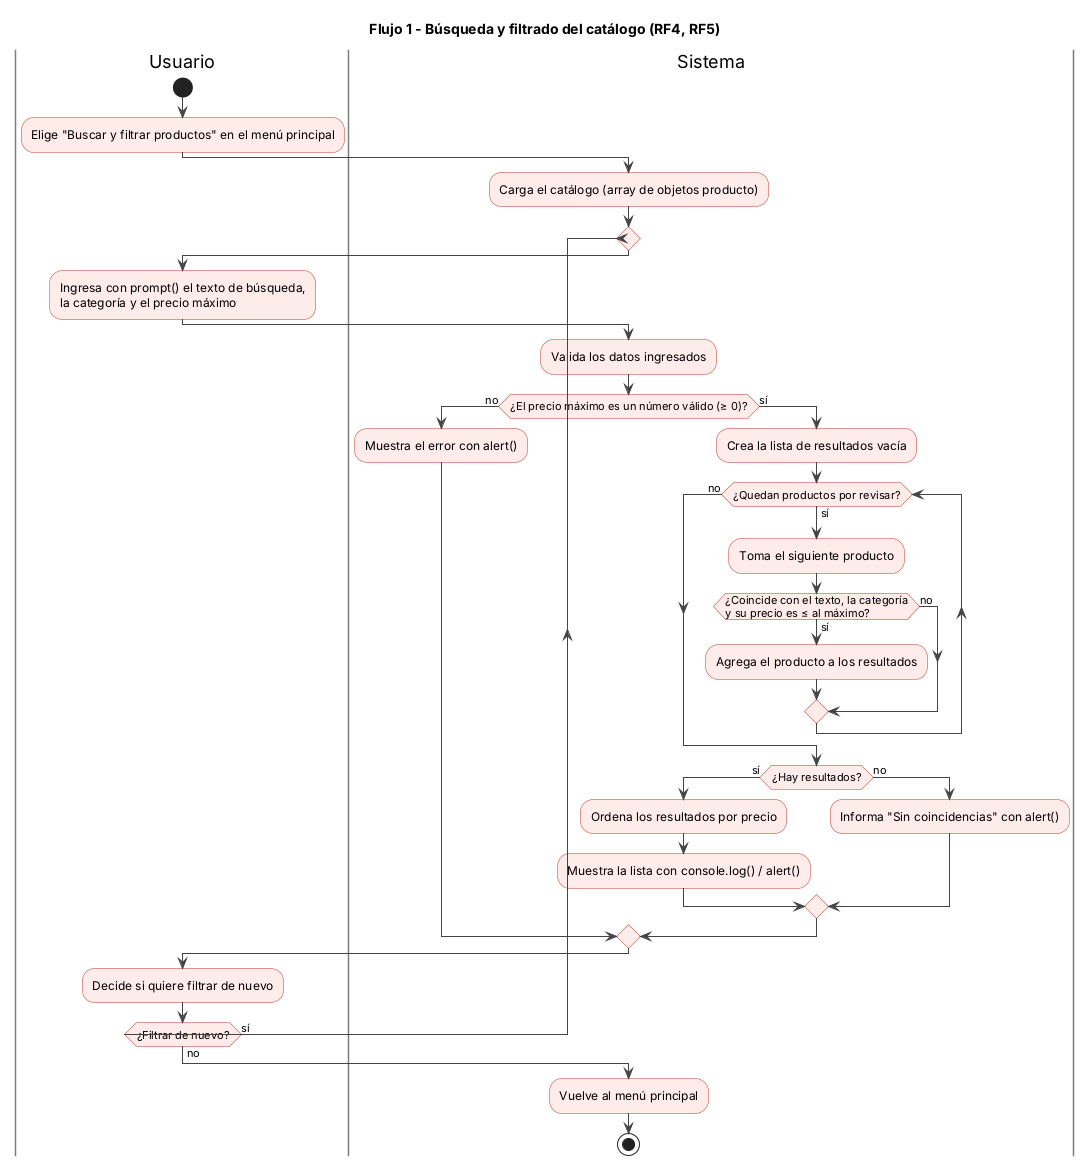
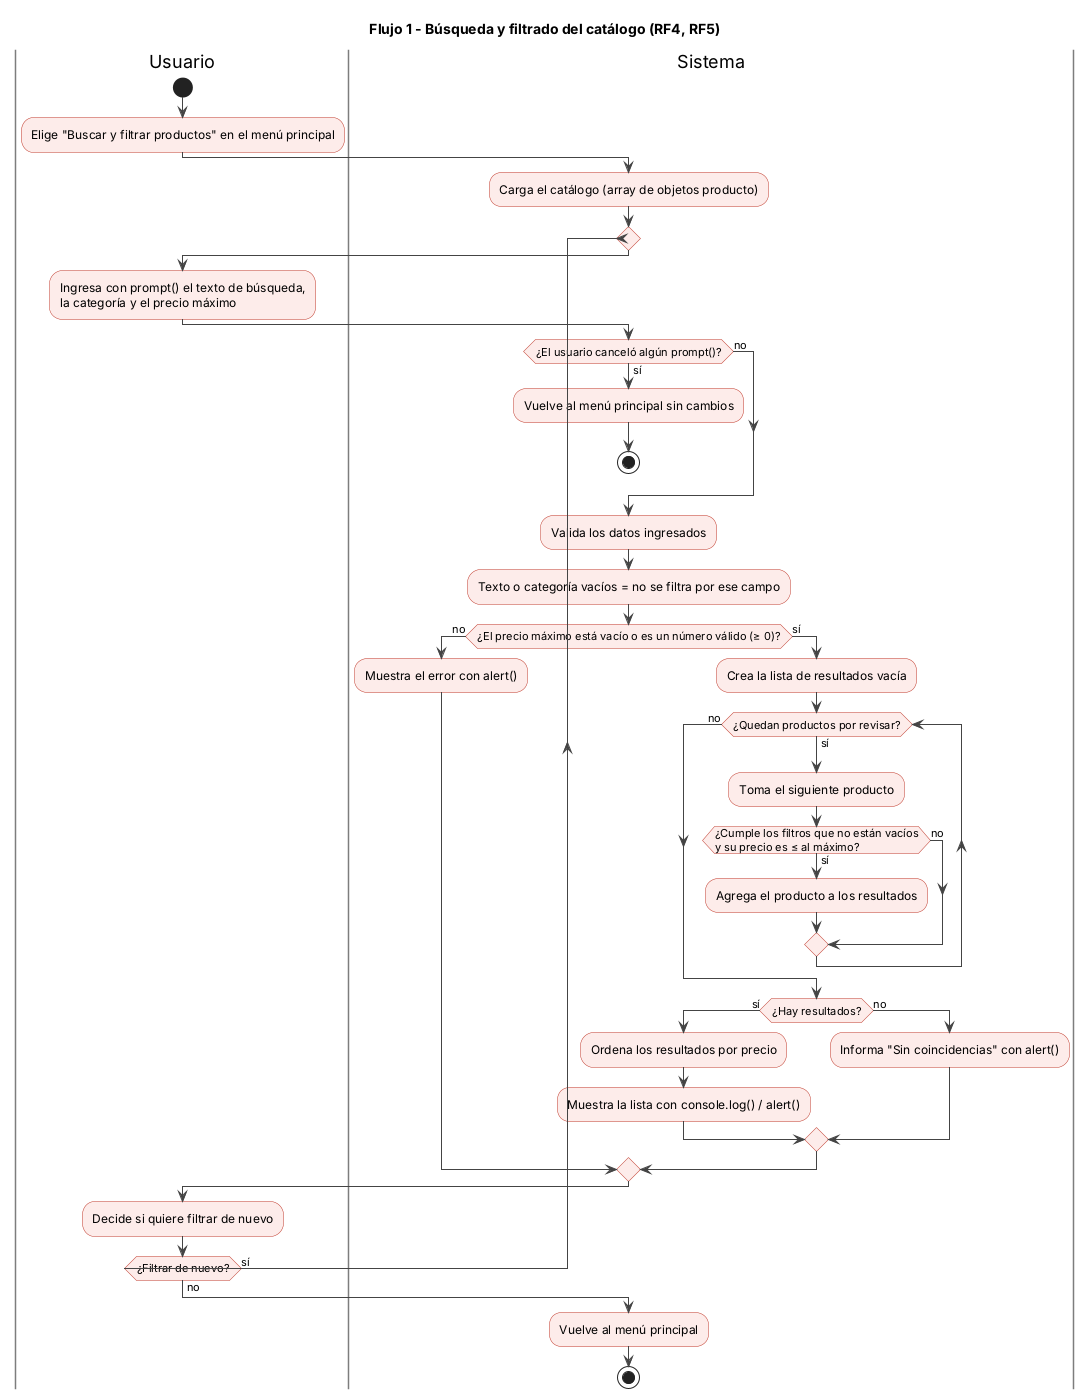
docs(diagramas): aplicar reglas acordadas con el dev JS (cancelaciones y efectos entre flujos)

diff --git a/docs/03-specs/actividad-obligatoria-3/spec-arq-diagramas.md b/docs/03-specs/actividad-obligatoria-3/spec-arq-diagramas.md
@@ -54,8 +54,9 @@ UI. Dentro de cada diagrama:
 - [x] `diagramas-doc.md` con índice, descripción de cada flujo, enlace al
       `.puml`, imagen `.png` embebida e instrucciones de edición (se
       comprobó que los enlaces relativos apuntan a archivos existentes).
-- [ ] Coordinación con el Desarrollador JavaScript para que los diagramas
-      reflejen la implementación (pendiente de confirmación por su parte).
+- [x] Coordinación con el Desarrollador JavaScript para que los diagramas
+      reflejen la implementación (reglas de cancelación y efectos entre
+      flujos acordadas en la issue; ver "Reglas acordadas" en AL CERRAR).
 
 ### Herramientas
 
@@ -136,8 +137,27 @@ correcciones del code review.
   condición clara por nivel: primero existencia del producto, después
   cantidad válida y finalmente si ya está en el carrito. Se aplicó el mismo
   criterio al caso "cambiar cantidad".
+- **Reglas acordadas con el Desarrollador JavaScript** (issue de
+  coordinación): se agregaron a los 4 diagramas las ramas de cancelación de
+  `prompt()` y los efectos entre flujos (ver tabla más abajo).
+- **Exportación:** el `.png` del flujo 2 superaba el límite por defecto de
+  PlantUML (4096 px de ancho) y salía cortado; se re-exportó ampliando el
+  límite con `-DPLANTUML_LIMIT_SIZE`.
 - **Verificación:** se regeneraron los 4 `.png` desde sus `.puml` y se
   comprobó que coinciden con los archivos exportados.
+
+### Reglas acordadas con el Desarrollador JavaScript
+
+| Flujo | Punto | Regla acordada |
+|---|---|---|
+| 1 Búsqueda | Filtros vacíos | Texto, categoría o precio vacíos = no se filtra por ese campo |
+| 1 Búsqueda | Cancelar un `prompt()` | Vuelve al menú principal sin cambios |
+| 2 Carrito | Modificar productos con pago elegido | Si cambia el total, se descartan el método de pago y las cuotas y hay que volver a elegir |
+| 2 Carrito | Cancelar un `prompt()` | No se modifica el carrito; cancelar el menú equivale a salir |
+| 3 Pago | Cancelar la selección | No se guarda método ni cuotas y vuelve al menú principal |
+| 3 Pago | Cuotas y recargos | Se consultan en una tabla según la cantidad de cuotas; los valores concretos se definen en `js/script.js` y `spec-dev-javascript.md` |
+| 4 Pedido | Al confirmar | Se vacían el carrito y el método de pago |
+| 4 Pedido | Cancelar la carga de datos o responder NO | Pedido cancelado; se conservan el carrito y el pago |
 
 ### Decisiones de diseño finales
 

diff --git a/docs/05-diagramas/01-diagrama-de-actividades/diagramas-doc.md b/docs/05-diagramas/01-diagrama-de-actividades/diagramas-doc.md
@@ -24,8 +24,9 @@ Todos usan swimlanes: **Usuario** (ingresa datos con `prompt()` y decide) y
 
 El usuario ingresa texto, categoría y precio máximo. El sistema valida el
 precio, recorre el catálogo, arma la lista de coincidencias, la ordena por
-precio y la muestra. El ciclo se repite mientras el usuario quiera filtrar
-de nuevo.
+precio y la muestra. Los campos vacíos no filtran y cancelar un `prompt()`
+vuelve al menú. El ciclo se repite mientras el usuario quiera filtrar de
+nuevo.
 
 ![Flujo 1](actividad-flujo-1-busqueda-filtrado.png)
 
@@ -33,7 +34,9 @@ de nuevo.
 
 Menú con `prompt()` para agregar, cambiar cantidad, eliminar, comprar o salir.
 Cada acción valida producto y cantidad. Después de cada acción el sistema
-recorre los ítems, recalcula subtotales y total, y muestra el carrito.
+recorre los ítems, recalcula subtotales y total, y muestra el carrito. Cancelar un
+`prompt()` no modifica el carrito, y si el total cambia se descarta el pago
+ya elegido.
 
 ![Flujo 2](actividad-flujo-2-carrito.png)
 
@@ -42,6 +45,7 @@ recorre los ítems, recalcula subtotales y total, y muestra el carrito.
 El usuario elige el método de pago. Si permite financiación, ingresa la
 cantidad de cuotas (se repite hasta que sea válida). El sistema calcula
 interés, total financiado y valor de cada cuota, y muestra las condiciones.
+Cancelar en cualquier `prompt()` no guarda nada y vuelve al menú.
 
 ![Flujo 3](actividad-flujo-3-pago-cuotas.png)
 
@@ -50,7 +54,8 @@ interés, total financiado y valor de cada cuota, y muestra las condiciones.
 El sistema verifica que haya carrito y pago elegido. El usuario ingresa
 nombre, correo y dirección (cada dato se repite hasta ser válido). Se
 muestra el resumen y el usuario confirma o cancela; si confirma, se genera
-el número de pedido y se vacía el carrito.
+el número de pedido y se vacían el carrito y el pago. Cancelar la carga de
+datos o responder NO cancela el pedido y conserva el carrito y el pago.
 
 ![Flujo 4](actividad-flujo-4-confirmacion-pedido.png)
 
